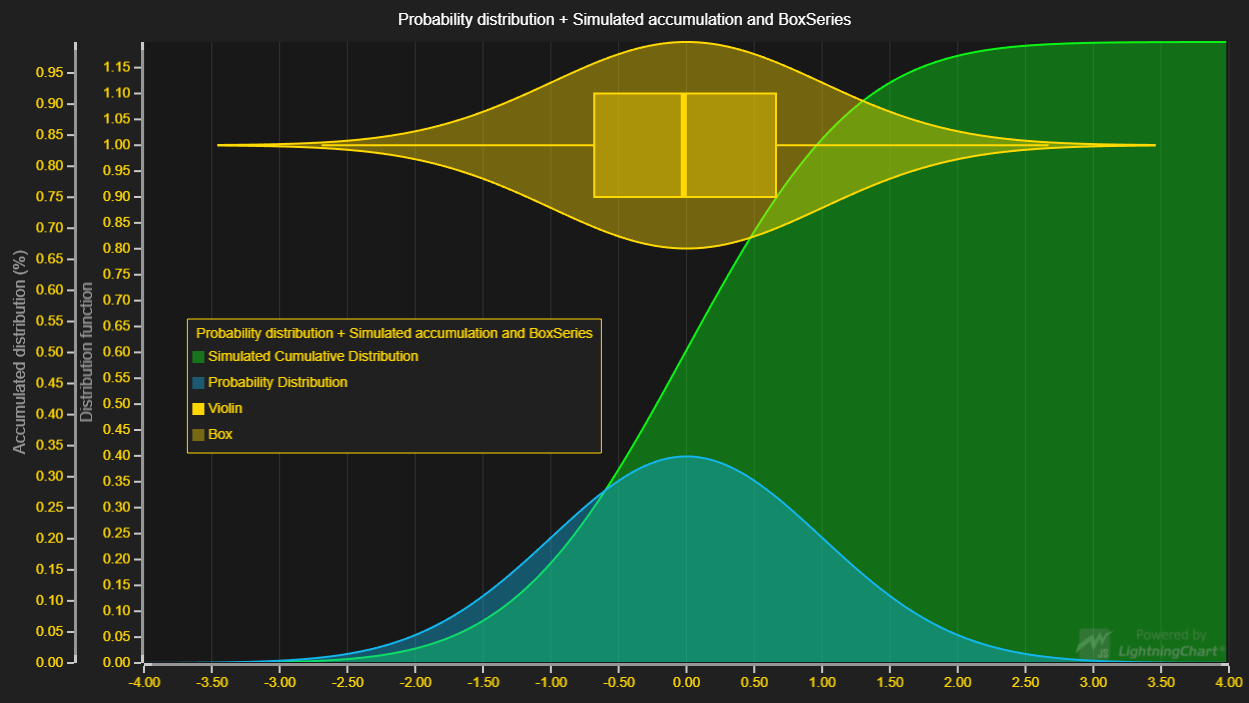
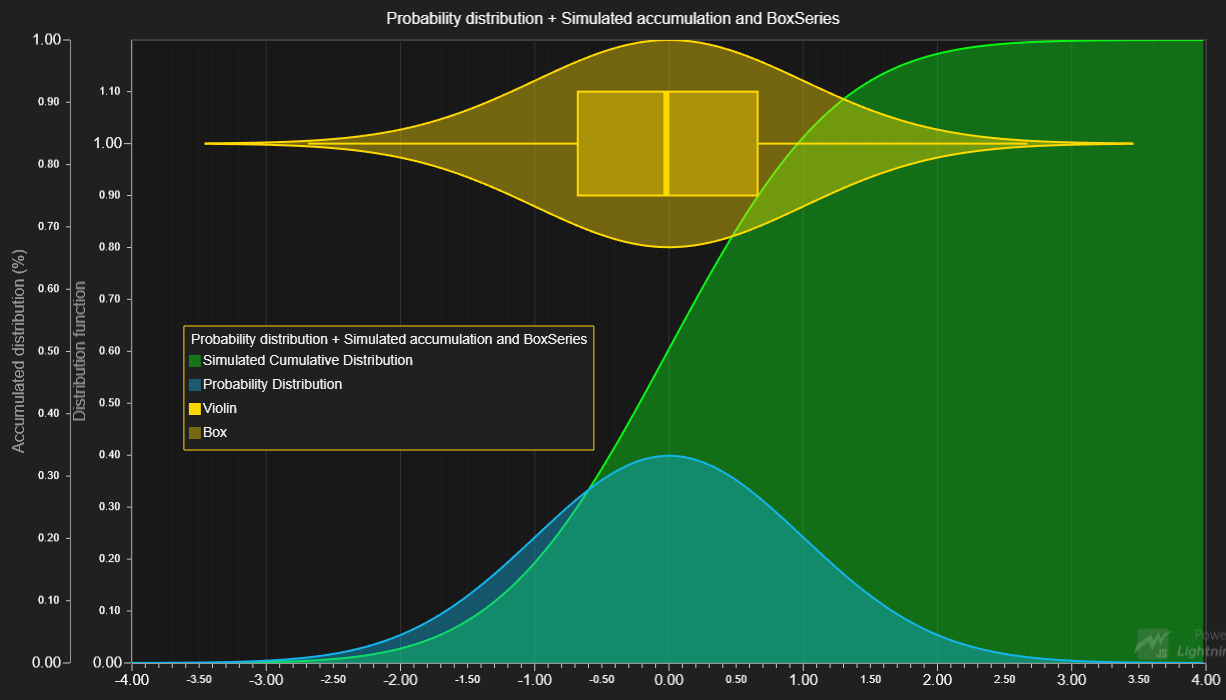
LCJS 2.0.0

diff --git a/src/index.js b/src/index.js
@@ -15,8 +15,10 @@ const {
     LegendBoxBuilders,
     UIDraggingModes,
     AxisScrollStrategies,
+    AxisTickStrategies,
     AutoCursorModes,
-    UIOrigins
+    UIOrigins,
+    Themes
 } = lcjs
 
 // Import data-generator from 'xydata'-library.
@@ -90,7 +92,9 @@ const probabilityDistribution = (mean, variance) =>
 //#endregion
 
 // Make chart with series graphing standard probability density and cumulative distribution functions.
-const chart = lightningChart().ChartXY()
+const chart = lightningChart().ChartXY({
+    // theme: Themes.dark 
+})
     .setTitle('Probability distribution + Simulated accumulation and BoxSeries')
     // Set auto-cursor mode to 'onHover'
     .setAutoCursorMode(AutoCursorModes.onHover)
@@ -110,21 +114,49 @@ const axisX = chart.getDefaultAxisX()
     .setInterval(xBounds.min, xBounds.max)
     .setScrollStrategy(undefined)
 
+// Set up the Distribution Axis.
 axisDistribution
     .setTitle('Distribution function')
     .setScrollStrategy(AxisScrollStrategies.expansion)
-    // Modify TickStyle to hide gridStrokes.
-    .setTickStyle(visibleTicks => visibleTicks
-        .setGridStrokeStyle(emptyLine)
+    // Modify the TickStrategy to remove gridLines from this Y Axis.
+    .setTickStrategy(
+        // Use Numeric TickStrategy as base.
+        AxisTickStrategies.Numeric,
+        // Use mutator to modify the TickStrategy.
+        tickStrategy => tickStrategy
+            // Modify Major Tick Style by using a mutator.
+            .setMajorTickStyle(
+                tickStyle => tickStyle
+                    .setGridStrokeStyle(emptyLine)
+            )
+            // Modify Minor Tick Style by using a mutator.
+            .setMinorTickStyle(
+                tickStyle => tickStyle
+                    .setGridStrokeStyle(emptyLine)
+            )
     )
 
+// Set up the Normalized Axis.
 axisNormalized
     .setTitle('Accumulated distribution (%)')
     .setInterval(0, 1)
     .setScrollStrategy(undefined)
-    // Modify TickStyle to hide gridStroke.
-    .setTickStyle(visibleTicks => visibleTicks
-        .setGridStrokeStyle(emptyLine)
+    // Modify the TickStrategy to remove gridLines from this Y Axis.
+    .setTickStrategy(
+        // Use Numeric TickStrategy as base.
+        AxisTickStrategies.Numeric,
+        // Use mutator to modify the TickStrategy.
+        tickStrategy => tickStrategy
+            // Modify Major Tick Style by using a mutator.
+            .setMajorTickStyle(
+                tickStyle => tickStyle
+                    .setGridStrokeStyle(emptyLine)
+            )
+            // Modify Minor Tick Style by using a mutator.
+            .setMinorTickStyle(
+                tickStyle => tickStyle
+                    .setGridStrokeStyle(emptyLine)
+            )
     )
 
 // Cumulative distribution.
@@ -133,7 +165,7 @@ const cumulativeDistributionSeries = chart.addAreaSeries({ yAxis: axisNormalized
     .setFillStyle(styles[0].opaqueFill)
     .setStrokeStyle(styles[0].solidLine)
 
-// probability distribution.
+// Probability distribution.
 const probabilityDistributionSeries = chart.addAreaSeries({ yAxis: axisDistribution })
     .setName('Probability Distribution')
     .setFillStyle(styles[1].opaqueFill)

diff --git a/README.md b/README.md
@@ -24,19 +24,19 @@ This example shows usage of BoxSeries in extravagant manner.
 
 ## API Links
 
-* Color palettes: [ColorPalettes]
-* Solid FillStyle: [SolidFill]
-* Solid LineStyle: [SolidLine]
-* XY cartesian chart: [ChartXY]
-* cursor modes: [AutoCursorModes]
-* cursor: [AutoCursorXY]
-* Axis: [Axis]
-* Scroll strategies: [AxisScrollStrategies]
-* Box series: [BoxSeries]
-* Box and whiskers Figure: [BoxAndWhiskers]
-* Horizontal Legend box: [HorizontalLegendBox]
-* UI dragging modes: [UIDraggingModes]
-* UI position origins: [UIOrigins]
+* [Color palettes]
+* [Solid FillStyle]
+* [Solid LineStyle]
+* [XY cartesian chart]
+* [cursor modes]
+* [cursor]
+* [Axis]
+* [Scroll strategies]
+* [Box series]
+* [Box and whiskers Figure]
+* [Horizontal Legend box]
+* [UI dragging modes]
+* [UI position origins]
 
 
 ## Support
@@ -60,17 +60,17 @@ Direct developer email support can be purchased through a [Support Plan][4] or b
 © Arction Ltd 2009-2020. All rights reserved.
 
 
-[ColorPalettes]: https://www.arction.com/lightningchart-js-api-documentation/v1.3.0/globals.html#colorpalettes
-[SolidFill]: https://www.arction.com/lightningchart-js-api-documentation/v1.3.0/classes/solidfill.html
-[SolidLine]: https://www.arction.com/lightningchart-js-api-documentation/v1.3.0/classes/solidline.html
-[ChartXY]: https://www.arction.com/lightningchart-js-api-documentation/v1.3.0/classes/chartxy.html
-[AutoCursorModes]: https://www.arction.com/lightningchart-js-api-documentation/v1.3.0/enums/autocursormodes.html
-[AutoCursorXY]: https://www.arction.com/lightningchart-js-api-documentation/v1.3.0/interfaces/autocursorxy.html
-[Axis]: https://www.arction.com/lightningchart-js-api-documentation/v1.3.0/classes/axis.html
-[AxisScrollStrategies]: https://www.arction.com/lightningchart-js-api-documentation/v1.3.0/globals.html#axisscrollstrategies
-[BoxSeries]: https://www.arction.com/lightningchart-js-api-documentation/v1.3.0/classes/boxseries.html
-[BoxAndWhiskers]: https://www.arction.com/lightningchart-js-api-documentation/v1.3.0/classes/boxandwhiskers.html
-[HorizontalLegendBox]: https://www.arction.com/lightningchart-js-api-documentation/v1.3.0/globals.html#legendboxbuilders.horizontallegendbox
-[UIDraggingModes]: https://www.arction.com/lightningchart-js-api-documentation/v1.3.0/enums/uidraggingmodes.html
-[UIOrigins]: https://www.arction.com/lightningchart-js-api-documentation/v1.3.0/globals.html#uiorigins
+[Color palettes]: https://www.arction.com/lightningchart-js-api-documentation/v2.0.0/globals.html#colorpalettes
+[Solid FillStyle]: https://www.arction.com/lightningchart-js-api-documentation/v2.0.0/classes/solidfill.html
+[Solid LineStyle]: https://www.arction.com/lightningchart-js-api-documentation/v2.0.0/classes/solidline.html
+[XY cartesian chart]: https://www.arction.com/lightningchart-js-api-documentation/v2.0.0/classes/chartxy.html
+[cursor modes]: https://www.arction.com/lightningchart-js-api-documentation/v2.0.0/enums/autocursormodes.html
+[cursor]: https://www.arction.com/lightningchart-js-api-documentation/v2.0.0/interfaces/autocursorxy.html
+[Axis]: https://www.arction.com/lightningchart-js-api-documentation/v2.0.0/classes/axis.html
+[Scroll strategies]: https://www.arction.com/lightningchart-js-api-documentation/v2.0.0/globals.html#axisscrollstrategies
+[Box series]: https://www.arction.com/lightningchart-js-api-documentation/v2.0.0/classes/boxseries.html
+[Box and whiskers Figure]: https://www.arction.com/lightningchart-js-api-documentation/v2.0.0/classes/boxandwhiskers.html
+[Horizontal Legend box]: https://www.arction.com/lightningchart-js-api-documentation/v2.0.0/globals.html#legendboxbuilders.horizontallegendbox
+[UI dragging modes]: https://www.arction.com/lightningchart-js-api-documentation/v2.0.0/enums/uidraggingmodes.html
+[UI position origins]: https://www.arction.com/lightningchart-js-api-documentation/v2.0.0/globals.html#uiorigins
 
